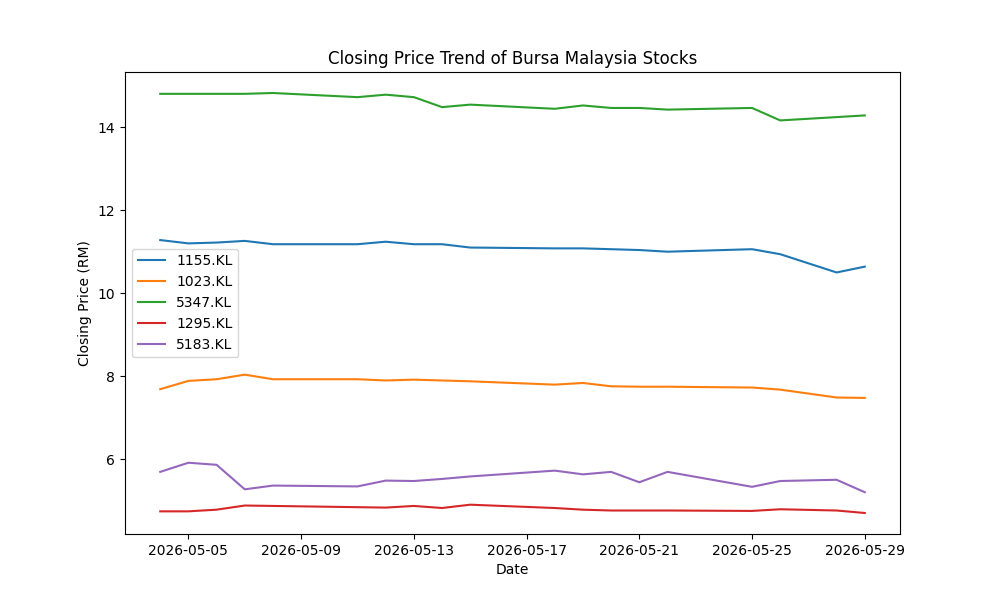
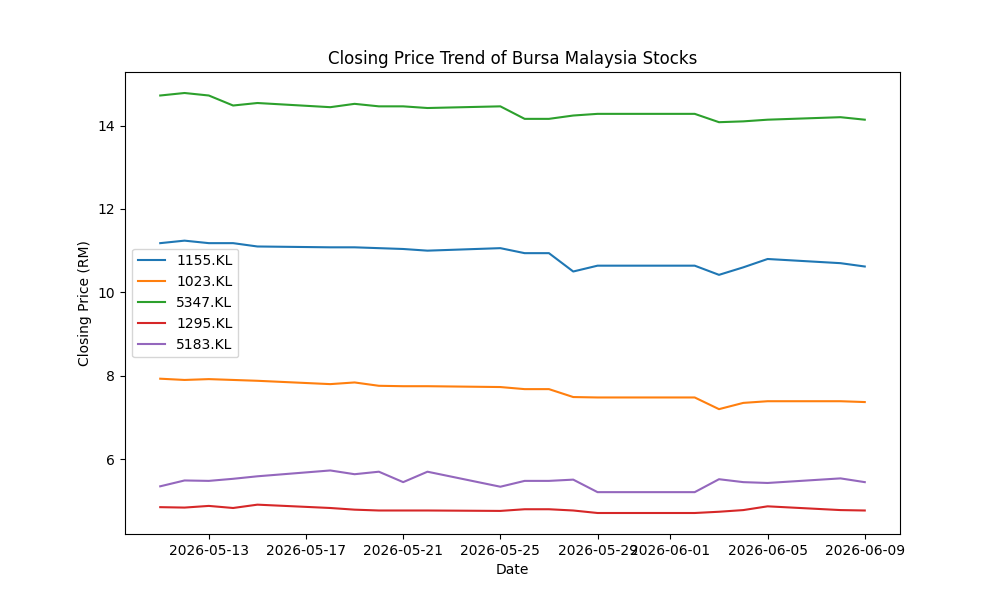
Update groupby analysis and charts

diff --git a/main.py b/main.py
@@ -94,8 +94,8 @@ print(df.to_string(index=False))
 # GroupBy analysis
 grouped = df.groupby("Performance Category")["Estimated Total Return"].mean()
 
-print("\nAverage Estimated Return by Performance Category")
-print(grouped)
+print("\nGroupBy Analysis Result")
+print(grouped.to_frame())
 
 import matplotlib.pyplot as plt
 